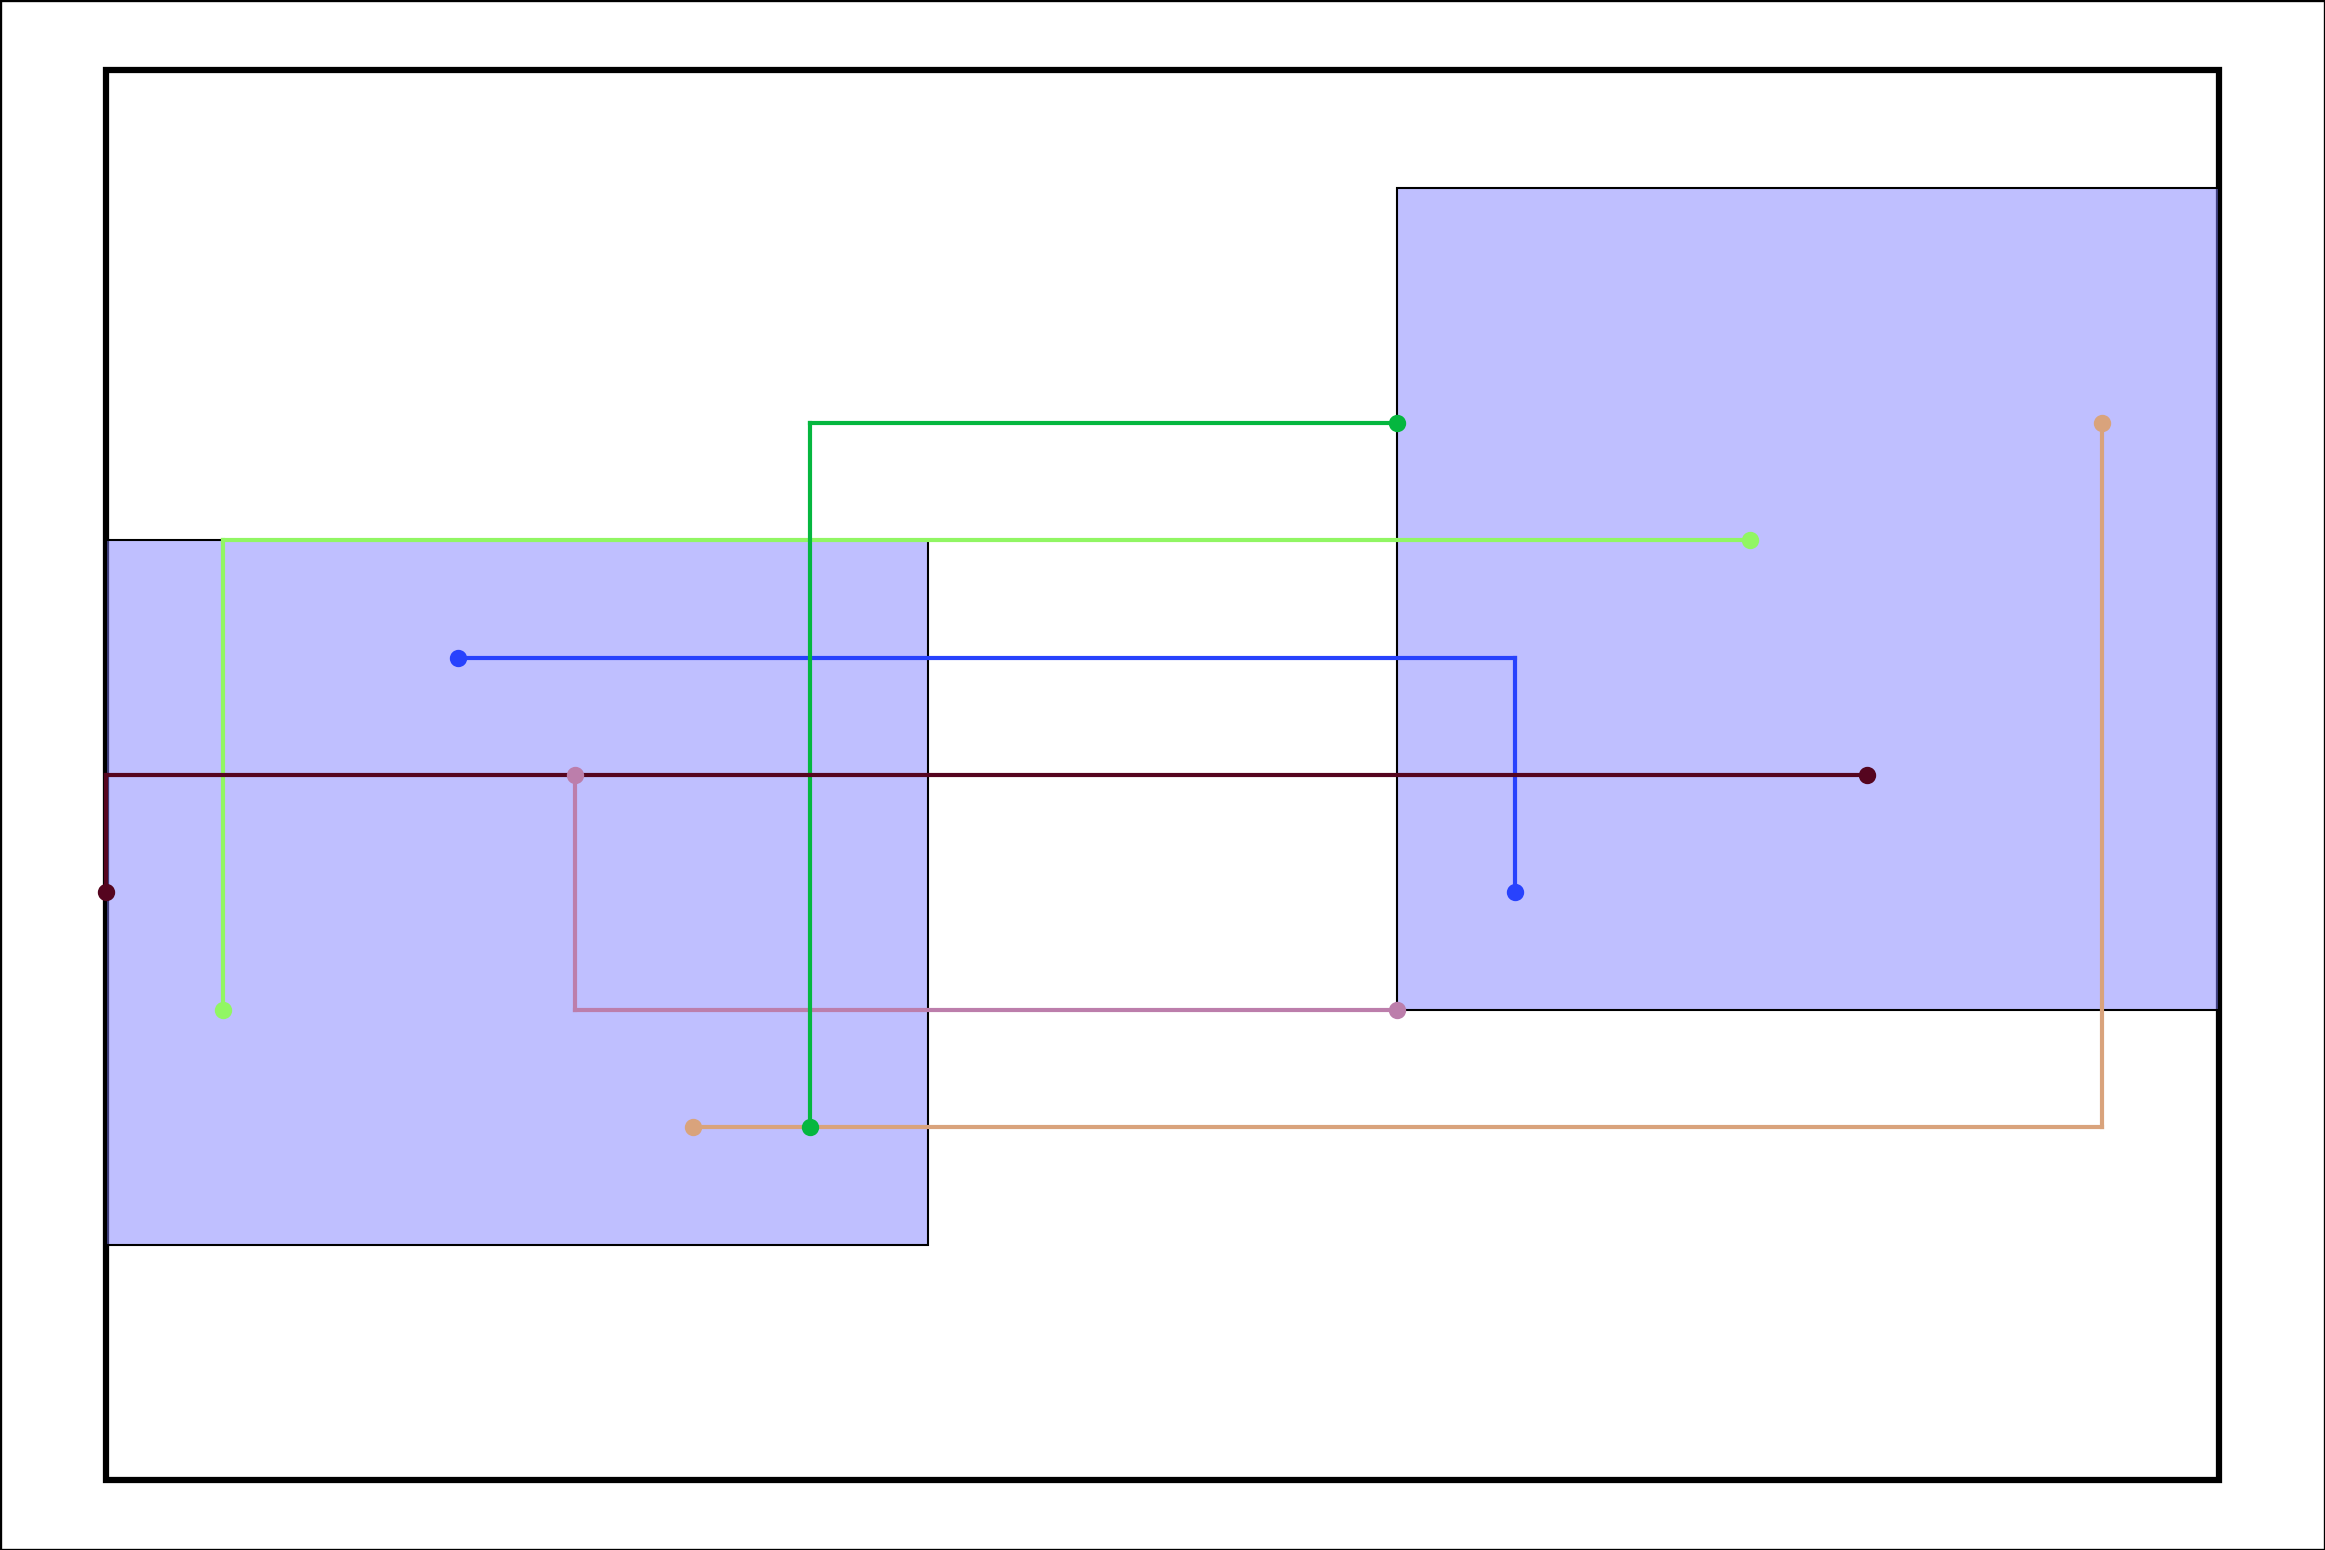
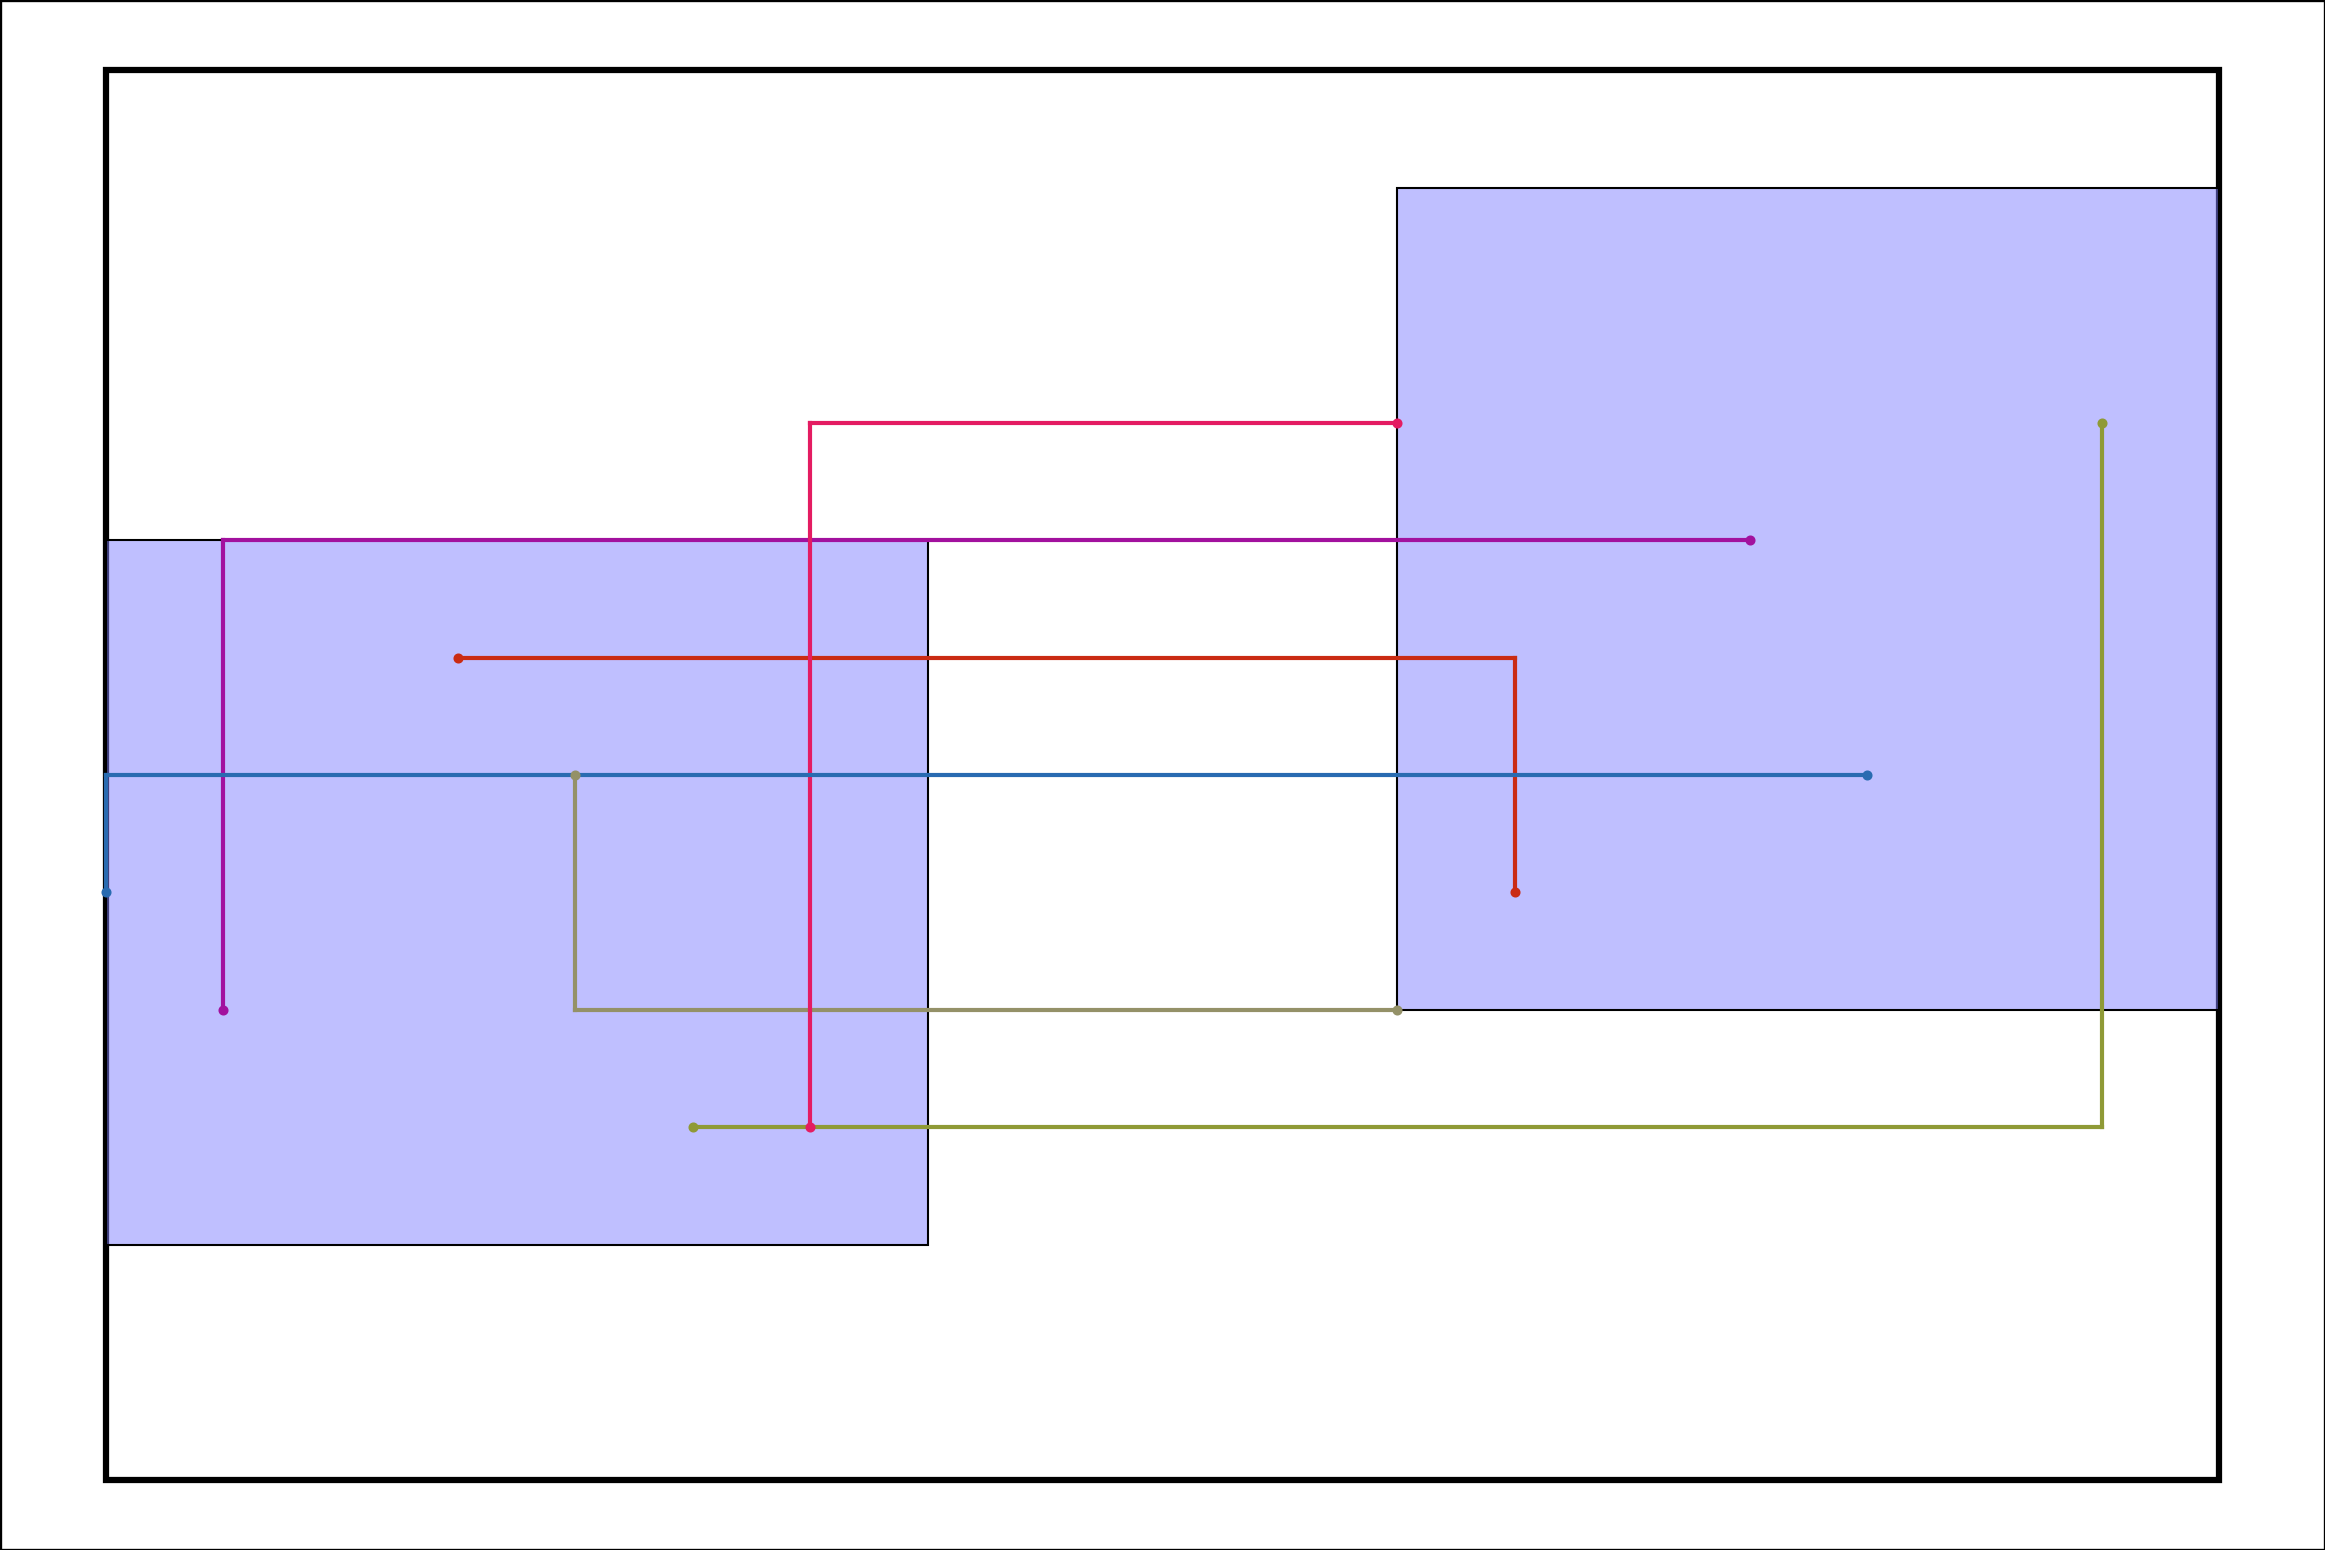
smaller dot

diff --git a/Lab4/draw.py b/Lab4/draw.py
@@ -63,8 +63,8 @@ def draw_route(file_path, output_image, dpi=300, margin_ratio=0.05):
             ax.plot([x1, x2], [y1, y2], color=color, lw=1)
 
         # Plot the source and sink points
-        ax.scatter(src_x, src_y, color=color, s=10, zorder=5)  # Source point
-        ax.scatter(snk_x, snk_y, color=color, s=10, zorder=5)  # Sink point
+        ax.scatter(src_x, src_y, color=color, s=5, zorder=5)  # Source point
+        ax.scatter(snk_x, snk_y, color=color, s=5, zorder=5)  # Sink point
 
     # Remove axis labels and ticks
     ax.set_xticks([])
